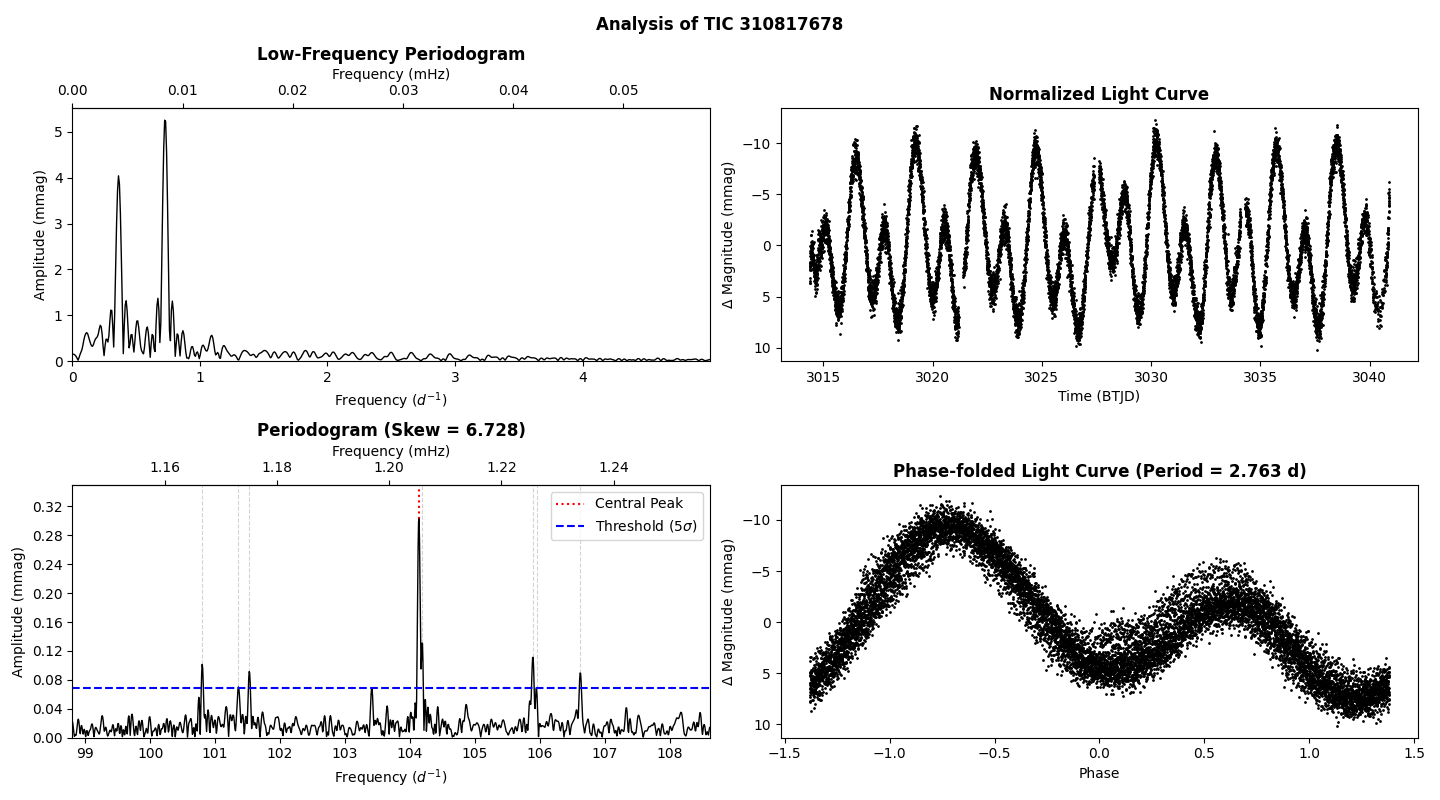
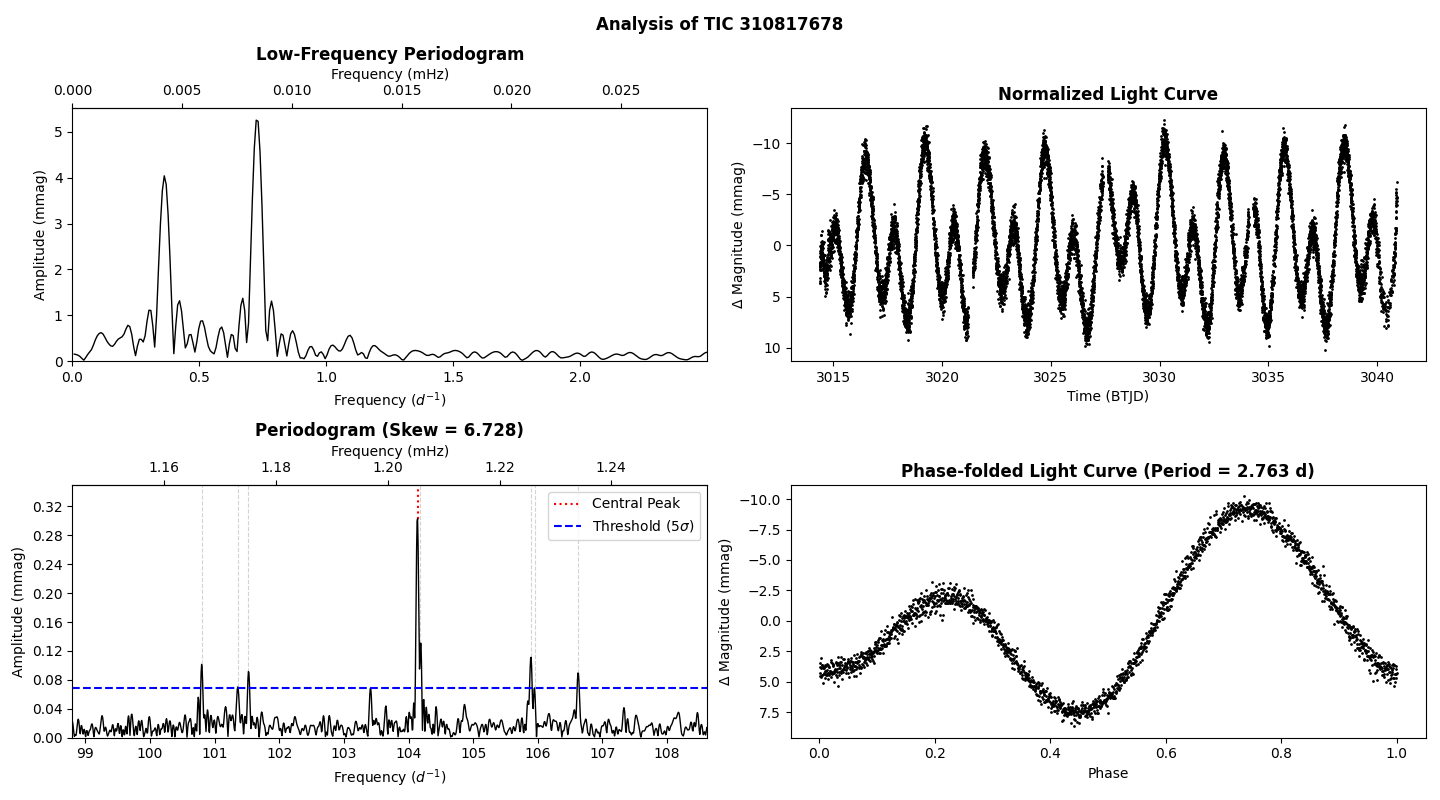
Updated Test.py and Target_roAp.py

diff --git a/roAp/Target_roAp.py b/roAp/Target_roAp.py
@@ -1,15 +1,16 @@
 from astroquery.mast import Catalogs
 from scipy.stats import gaussian_kde
 from scipy.signal import find_peaks
-import astropy.coordinates as coord 
+import astropy.coordinates as coord
 import matplotlib.pyplot as plt
 from scipy.stats import skew
-import astropy.units as u 
+import astropy.units as u
 import lightkurve as lk
 import pandas as pd
 import numpy as np
 import time
 import os
+
 
 def getShortestCadence(self, ra, dec):
     """
@@ -19,22 +20,28 @@ def getShortestCadence(self, ra, dec):
     """
     coords = coord.SkyCoord(ra, dec, unit="deg")
     ticResult = Catalogs.query_region(coords, radius=5 * u.arcsec, catalog="TIC")
-    tic_id = ticResult['ID'][0]
-    
+    tic_id = ticResult["ID"][0]
+
     if len(ticResult) == 0:
         print(f"No TIC match found near RA={ra}, DEC={dec}")
         return None, None, None, None, None
 
-    search = lk.search_lightcurve(f"TIC {tic_id}", author='QLP', exptime=200) # SPOC 
-    
+    search = lk.search_lightcurve(
+        f"TIC {tic_id}", author="TESS-SPOC", exptime=200
+    )  # SPOC
+
     if len(search) == 0:
-        print(f"No light curves found for TIC {tic_id}, (RA={ra}, DEC={dec})") # Debugging
+        print(
+            f"No light curves found for TIC {tic_id}, (RA={ra}, DEC={dec})"
+        )  # Debugging
         return None, None, None, None, None
 
-    print('Printing original:\n', search)
-    
+    print("Printing original:\n", search)
+
     # Step 1: Find the shortest cadence
-    shortest_cadence = min([entry.exptime.value for entry in search if entry.exptime is not None])
+    shortest_cadence = min(
+        [entry.exptime.value for entry in search if entry.exptime is not None]
+    )
     print(f"Shortest cadence found: {shortest_cadence} s")
 
     # Step 2: Filter entries with that exact cadence and valid target name
@@ -58,65 +65,70 @@ def getShortestCadence(self, ra, dec):
 
     # Step 3: Download and stitch all valid entries
     try:
-        downloaded = lk.LightCurveCollection([entry.download() for entry in valid_entries])
+        downloaded = lk.LightCurveCollection(
+            [entry.download() for entry in valid_entries]
+        )
         print(f"Number of light curves downloaded: {len(downloaded)}")
         if len(downloaded) == 1:
-            stitched = downloaded[0].normalize(unit='ppm')
-            print("No stitching needed, normalized light curve...")
+            stitched = downloaded[0]
+            norm_lc = stitched.normalize()
+            print("No stitching needed...")
         else:
-            stitched = downloaded.stitch().normalize(unit='ppm')
-            print('Stitched and Normalized light curve...')
-        
-        pg = stitched.flatten().to_periodogram(normalization='amplitude')
+            stitched = downloaded.stitch()
+            norm_lc = stitched.normalize()
+            print("Stitched light curve...")
+
+        pg = stitched.flatten().to_periodogram(normalization="amplitude")
         print(f"Converted to periodogram...")
         pg.show_properties()
-        
+
         peaks, _ = find_peaks(pg.power, height=1e-4)
-        
-        if peaks.shape == (0,): # Filtering out the stars with no features
+
+        if peaks.shape == (0,):  # Filtering out the stars with no features
             print("No features to analyze...")
             return None, None, None, None, None
-        
-        pgskewed = skew(pg.power, nan_policy='omit')
-        print('PG Skew value:', pgskewed)
-        
-        flux = np.array(stitched.flux.to_value())
-        lcskewed = skew(flux, nan_policy='omit')
-        print('LC Skew value:', lcskewed)
-        
-        return stitched, pg, tic_id, pgskewed, lcskewed
+
+        pgskewed = skew(pg.power, nan_policy="omit")
+        print("PG Skew value:", pgskewed)
+
+        flux = np.array(norm_lc.flux.to_value())
+        lcskewed = skew(flux, nan_policy="omit")
+        print("LC Skew value:", lcskewed)
+
+        return norm_lc, pg, tic_id, pgskewed, lcskewed
 
     except Exception as e:
         print(f"Download failed for TIC {tic_id}: {e}")
         return None, None, None, None, None
 
+
 def getTESSData(self, targetID):
     """
     Using the RA and DEC, found from the Gaia query in 'GetData' class,
     of the star to get its lightcurve data using the lightkurve library.
-    """        
+    """
     # Reading the candidates from the csv file
     cands = pd.read_csv(f"Data/Candidates/stragler-candidates-ID{targetID}.csv")
     # Rename the column 'OldName' to 'NewName'
-    cands.rename(columns={'BP-RP0': 'BP_RP0'}, inplace=True)
+    cands.rename(columns={"BP-RP0": "BP_RP0"}, inplace=True)
     stars = []
-    
-    print('Starting TESS data download...')
+
+    print("Starting TESS data download...")
     i = 0
     for row in cands.itertuples(index=False):
         ra, dec = row.RA_ICRS, row.DE_ICRS
         prob = row.Prob
         i += 1
-        print( '-'*40, f'\nIteration #{i}')
-        
+        print("-" * 40, f"\nIteration #{i}")
+
         # Skipping if the candidate has a low probability
         # This is a placeholder condition, adjust as needed
         if prob < 0.5:
             print(f"Skipping candidate with low probability: {prob}")
             continue
-        
+
         lc, pg, tic_id, pgskewed, lcskewed = self.getShortestCadence(ra, dec)
-        
+
         if lc is None:
             continue
 
@@ -126,25 +138,27 @@ def getTESSData(self, targetID):
         nyquist = pg.nyquist.value
         maxPwFreq = pg.frequency_at_max_power.value
         maxPw = pg.max_power.value
-        
+
         # Adding data to the stars list
-        if (ra in cands['RA_ICRS'].values) and (dec in cands['DE_ICRS'].values):
-            stars.append({
-                'Cluster Name': row.Name,
-                'ID': row.ID,
-                'TargetID': f"TIC {id}",
-                'GaiaDR3': row.GaiaDR3,
-                'Probability': prob,
-                'Solar Mass' : row.Mass50,
-                'RA (deg)': ra,
-                'DEC (deg)': dec,
-                'pmRA' : row.pmRA,
-                'pmDEC' : row.pmDE,
-                'Nyquist Frequency (1/d)': round(nyquist, 6),
-                'Max Power (ppm)': round(maxPw, 6),
-                'Frequency at max Power (1/d)': round(maxPwFreq, 4),
-                'GMAG': row.GMAG0,
-                'BP_RP': row.BP_RP0,
-                'PG Skew' : pgskewed,
-                'LC Skew' : lcskewed
-            })
+        if (ra in cands["RA_ICRS"].values) and (dec in cands["DE_ICRS"].values):
+            stars.append(
+                {
+                    "Cluster Name": row.Name,
+                    "ID": row.ID,
+                    "TargetID": f"TIC {id}",
+                    "GaiaDR3": row.GaiaDR3,
+                    "Probability": prob,
+                    "Solar Mass": row.Mass50,
+                    "RA (deg)": ra,
+                    "DEC (deg)": dec,
+                    "pmRA": row.pmRA,
+                    "pmDEC": row.pmDE,
+                    "Nyquist Frequency (1/d)": round(nyquist, 6),
+                    "Max Power (ppm)": round(maxPw, 6),
+                    "Frequency at max Power (1/d)": round(maxPwFreq, 4),
+                    "GMAG": row.GMAG0,
+                    "BP_RP": row.BP_RP0,
+                    "PG Skew": pgskewed,
+                    "LC Skew": lcskewed,
+                }
+            )

diff --git a/roAp/Test.py b/roAp/Test.py
@@ -9,9 +9,11 @@ import numpy as np
 author = "TESS-SPOC"
 sectors = 57,56,60,58,59"""
 
-# tic_id = 'TIC 165052884' # WEIRD
+# tic_id = 'TIC 165052884' # Terrible data
+# author = "TESS-SPOC"
 
 # tic_id = 'TIC 101624823' # NONE at 200s
+# author = "TESS-SPOC"
 
 '''tic_id = 'TIC 259017938'
 author = "TESS-SPOC"'''
@@ -20,18 +22,18 @@ author = "TESS-SPOC"'''
 author = "TESS-SPOC"
 sectors = 73#60"""
 
-'''tic_id = 'TIC 445493624' # Lots of noise
-author="TESS-SPOC"'''
+# tic_id = 'TIC 445493624' # Lots of noise
+# author="TESS-SPOC"
 
-"""tic_id = 'TIC 467074220' # Lots of noise
-author="TESS-SPOC"
-sectors = 73#, 59"""
+# tic_id = 'TIC 467074220' # WEIRD, DIAGNOSE THIS
+# author="TESS-SPOC"
+# sectors = 73#59
 
-tic_id = "TIC 310817678"  # GOOD, fig 8
+# tic_id = "TIC 310817678"  # GOOD, fig 8
+# author = "TESS-SPOC"
+
+tic_id = "TIC 387115314"  # GOOD, fig 11
 author = "TESS-SPOC"
-
-'''tic_id = 'TIC 387115314' # GOOD, fig 11
-author = "TESS-SPOC"'''
 
 lc = lk.search_lightcurve(tic_id, exptime=200, author=author)  # , sector=sectors)
 print(lc)
@@ -53,12 +55,11 @@ time = stitch.time.value
 pg = stitch.flatten().to_periodogram(normalization="amplitude")
 pg.show_properties()
 
-pg_low = stitch.to_periodogram(normalization="amplitude", maximum_frequency=10.0)
+pg_low = stitch.to_periodogram(normalization="amplitude", maximum_frequency=5.0)
 
 # To find the frequency of max peak, want to do for lower frequency spectrum to get rotation period
-pmax = pg_low.frequency.value[np.argmax(pg_low.power.value)]
-rot_period = 2 / pmax
-print(f"Rotation Period: {1/pmax} days")
+fmax = pg_low.frequency_at_max_power.to_value()
+rot_period = 2 / fmax
 
 # Threshold to find peaks
 mmag_lps = (
@@ -202,13 +203,16 @@ bin_size_days = desired_phase_bin * rot_period
 binned = folded_lc.bin(time_bin_size=bin_size_days)
 
 # Convert relative flux to mmag
-mmag_fpd = -2.5 * np.log10(folded_lc.flux / np.mean(folded_lc.flux)) * 1000
-ax4.scatter(folded_lc.phase.value, mmag_fpd, s=1, color="k")
+mmag_fpd = -2.5 * np.log10(binned.flux / np.mean(binned.flux)) * 1000
+phase = (binned.time.value % rot_period) / rot_period  # Phase from 0 to 1
+# mmag_fpd = -2.5 * np.log10(folded_lc.flux / np.mean(folded_lc.flux)) * 1000
+# phase = (folded_lc.time.value%rot_period) / rot_period  # Phase from 0 to 1
+ax4.scatter(phase, mmag_fpd, s=1, color="k")
 ax4.set_xlabel("Phase")
 ax4.set_ylabel("Δ Magnitude (mmag)")
 # folded_lc.plot(ax=ax4, color='black', zorder=2)
 ax4.set_title(
-    f"Phase-folded Light Curve (Period = {(1/pmax):.3f} d)", fontweight="bold"
+    f"Phase-folded Light Curve (Period = {(rot_period):.3f} d)", fontweight="bold"
 )
 ax4.invert_yaxis()  # Invert y-axis for magnitude
 
